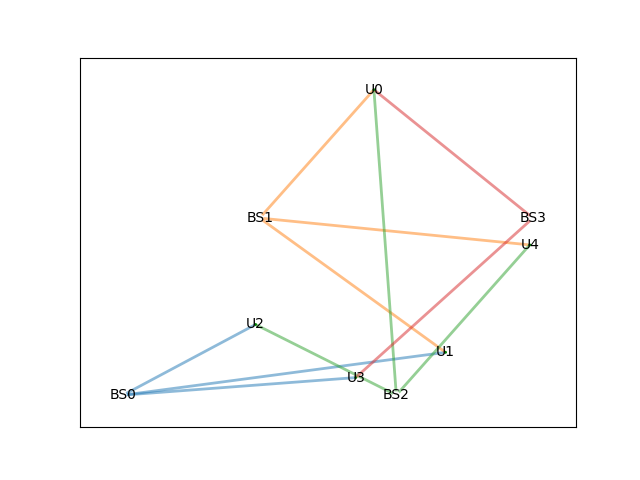
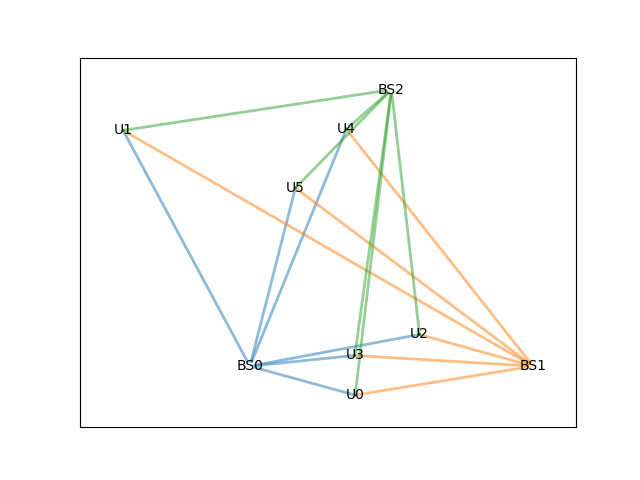
update

diff --git a/main.py b/main.py
@@ -11,29 +11,32 @@ from itertools import product
 import initialization
 import new_optimization
 import os
-from parameters import *
 import functions as f
 from matplotlib.cm import ScalarMappable
 
-np.random.seed(seed)
+for iteration in range(1):
+    np.random.seed(iteration)
+    from parameters import *
 
-if Closest and OneConnection:
-    opt_x = np.zeros((number_of_users, number_of_bs))
-    C = np.zeros(number_of_users)
-    for i in range(number_of_users):
-        j = f.find_closest_bs(i)
-        opt_x[i,j] = 1
-    for i in range(number_of_users):
-        C[i] = f.find_C(i, opt_x)
-    print(C)
-else:
-    opt_x = new_optimization.optimization()
-print(opt_x)
+    if Closest and OneConnection:
+        opt_x = np.zeros((number_of_users, number_of_bs))
+        C = np.zeros(number_of_users)
+        for i in range(number_of_users):
+            j = f.find_closest_bs(i)
+            opt_x[i,j] = 1
+        print(opt_x)
+        for i in range(number_of_users):
+            C[i] = f.find_C(i, opt_x)
+        print(C)
+    else:
+        opt_x = new_optimization.optimization()
+    print(opt_x)
+    print('Average number of connections:', np.sum(opt_x)/number_of_users)
 
-fig, ax = plt.subplots()
-G, colorlist, nodesize, edgesize, labels, edgecolor = f.make_graph(x_bs, y_bs, x_user, y_user, opt_x, number_of_users)
-f.draw_graph(G, colorlist, nodesize, edgesize, labels, ax, color = 'black', edgecolor = edgecolor)
-plt.show()
+    fig, ax = plt.subplots()
+    G, colorlist, nodesize, edgesize, labels, edgecolor = f.make_graph(x_bs, y_bs, x_user, y_user, opt_x, number_of_users)
+    f.draw_graph(G, colorlist, nodesize, edgesize, labels, ax, color = 'black', edgecolor = edgecolor)
+    plt.show()
 
 
 if Plot_Interference:

diff --git a/parameters.py b/parameters.py
@@ -6,8 +6,8 @@ colors = ['#1f77b4', '#ff7f0e', '#2ca02c', '#d62728', '#9467bd', '#8c564b', '#e3
 
 pi = math.pi
 
-OneConnection = True
-Closest = True
+OneConnection = False
+Closest = False
 
 Beamforming = True
 Sectorized_Antennnas = False
@@ -23,8 +23,7 @@ xDelta = xmax - xmin
 yDelta = ymax - ymin
 
 number_of_bs = 3
-number_of_users = 4
-print(number_of_users)
+number_of_users = 6
 
 alpha = 0   #alpha-fair utility - alpha = 0 is sum, alpha = 1 is log, alpha = 2 is fair
 
@@ -46,8 +45,7 @@ def find_coordinates(seed):
     x_user, y_user = np.random.uniform(xmin, xmax, number_of_users), np.random.uniform(ymin, ymax, number_of_users)
     return x_bs, y_bs, x_user, y_user
 
-seed = 3
-np.random.seed(seed)
+seed = 2
 
 radius = 75  # for triangular grid
 
@@ -59,6 +57,7 @@ beamwidth_b = 2 * pi / N_bs
 
 x_bs, y_bs, x_user, y_user = find_coordinates(seed)
 x_bs, y_bs = [25, 75, 50], [25, 25, 25 + math.sqrt(1875)]
+
 number_of_bs = len(x_bs)
 
 critical_distance = 100
@@ -67,10 +66,10 @@ transmission_power = 10 ** 2.8  #28 dB
 noise = 10 ** 0.7  #7 db
 sigma = noise / transmission_power
 
-W = 1#28e9        # bandwidth (Either 28 GHz or 73 GHz)
+W = 1000 #28e9        # bandwidth (Either 28 GHz or 73 GHz)
 
 d0 = 5
-wavelength = 10.71 * 10*(-3)
+wavelength = 10.71 * 10**(-3)
 k = (4 * pi * d0/ wavelength)**-2
 alpha_nlos = 5.7
 alpha_los = 2

diff --git a/functions.py b/functions.py
@@ -6,8 +6,6 @@ import seaborn
 from parameters import *
 import networkx as nx
 
-np.random.seed(seed)
-
 pi = math.pi
 
 def user_coords(i):
@@ -95,9 +93,8 @@ def find_C(i, x):
         if x[i,j] == 1:
             coords_i = user_coords(i)
             coords_j = bs_coords(j)
-            power = find_gain(coords_i, coords_j, coords_j, coords_i, beamwidth_b) * find_gain(coords_i, coords_j, coords_i, coords_j, beamwidth_u) * path_loss(coords_i, coords_j)
+            power = find_gain(coords_j, coords_i, coords_j, coords_i, beamwidth_b) * find_gain(coords_i, coords_j, coords_i, coords_j, beamwidth_u) * path_loss(coords_i, coords_j)
             interference = find_interference(coords_i, coords_j, x)
-            print(i, j, interference)
     return W * math.log(1 + power/(sigma + interference))
 
 def make_graph(xbs, ybs, xu, yu, x, number_of_users):

diff --git a/new_optimization.py b/new_optimization.py
@@ -132,6 +132,8 @@ def optimization():
             m.addConstr(quicksum(x[i,j] for j in base_stations) >= 1, name=f'1_con_user#{i}')
             if OneConnection:
                 m.addConstr(quicksum(x[i,j] for j in base_stations) == 1, name=f'1con_user#{i}')
+            if Closest:
+                m.addConstr(x[i, f.find_closest_bs(i)] >= 1)
 
 
         if alpha == 1:
